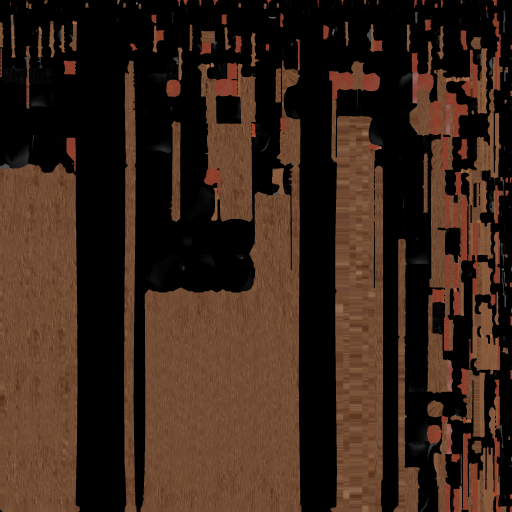
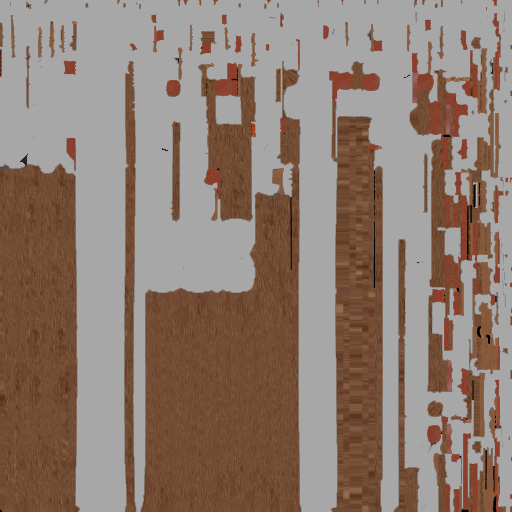
Fixed metallic texture

diff --git a/src/worlds/COG_MemoryPalace_LowRes/index.html b/src/worlds/COG_MemoryPalace_LowRes/index.html
@@ -17,7 +17,7 @@
     <circles-start-ui/>
 
     <!-- a-scene with 'circles-properties' component [REQUIRED] -->
-    <a-scene stats circles_scene_properties>
+    <a-scene circles_scene_properties>
       <a-assets>
         <!-- add your assets here -->
         <!-- credit: HDRMaps @ https://hdrmaps.com/above-the-clouds/ -->
@@ -109,7 +109,7 @@
             <a-image id="woman" position="-5.9 6.7 -11.5" scale="3 3 3" src="#woman_img" look-at="#Player1"></a-image>
             <a-image id="cerberus" position="-1.3 5.3 -2.45" scale="19 16 16" rotation="25 -100 0" src="#cerberus_img" look-at="#Player1"></a-image>
 
-            <a-entity id="TelephonePole" position="-6.6 -1.65 -10.1" rotation="0 -24.6 0" gltf-model="#telephonePole-gltf"></a-entity>
+            <a-entity id="TelephonePole" position="-6.6 -1.65 -10.1" rotation="0 -24.6 0" gltf-model="#telephonePole-gltf" circles-sphere-env-map="src:#skyMap"></a-entity>
 
             <a-entity id="pedestal-island2-scene1" position="-9.7 -1.4 -12.1" scale="0.2 0.2 0.2" gltf-model="#pedestal-gltf"></a-entity>
           </a-entity>
